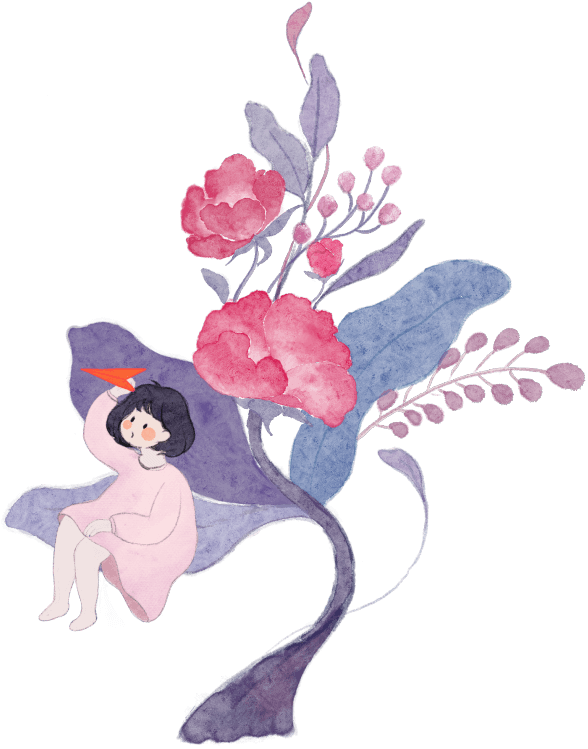
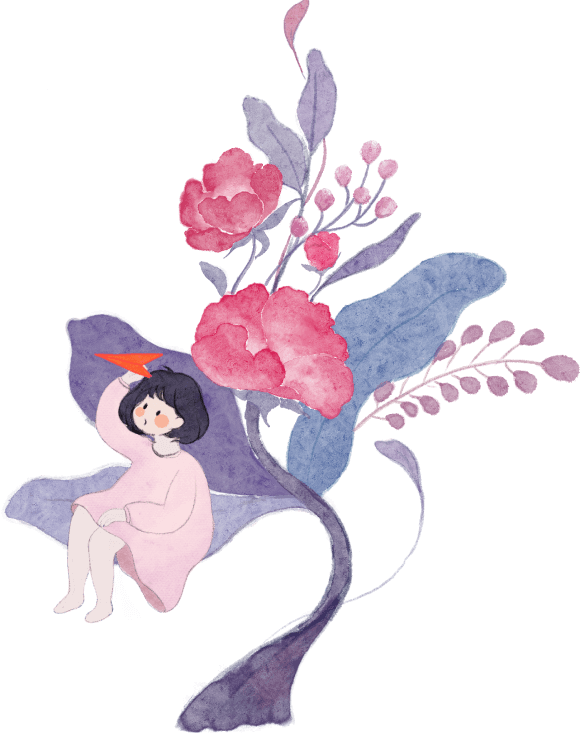
feat: plane following track on scroll (#11)
* feat: plane following track on scroll

* feat: activate plane only on big screen

* feat: add frame for cover image after plane released

diff --git a/templates/index.html b/templates/index.html
@@ -55,7 +55,10 @@
 
         <main>
             {% block content %}
-            <div class="cover"><img src="cover_girl.png" alt="cover" loading="lazy"></div>
+            <div class="cover">
+                <img src="cover_girl.png" id="coverImageDefault" alt="girl with plane in her hand" loading="lazy">
+                <img src="cover_girl_plane_released.png" id="coverImageActive" alt="girl with plane released" loading="lazy" style="display: none;">
+            </div>
             <div class="greet">Hi there!</div>
             <div class="introduction">
                 <p>
@@ -156,9 +159,96 @@
                 </a>
                 {% endfor %}
             </section>
+            <svg id="track" xmlns="http://www.w3.org/2000/svg" width="1460" height="1708" viewbox="0 0 1460 1708" fill="none">
+                <path id="curve"
+                    d="M1061.5 179C919.5 69.4998 395.536 -86.0222 105 69.4998C-64.9999 160.5 -6.50002 483.65 172.5 600C271.72 664.493 500.5 743.5 1048 743.5C1172.42 743.5 1246.5 737.667 1326.5 743.5C1443.5 752.031 1525.5 1088.5 1372 1137C714.198 1344.84 860 1658 526 1658C233.737 1658 152.833 1682.33 103 1704"
+                    stroke="#ED5500" stroke-width="7" />
+            </svg>
+            
+            <svg id="plane" xmlns="http://www.w3.org/2000/svg" xmlns:xlink="http://www.w3.org/1999/xlink" width="102" height="41"
+                viewbox="0 0 102 41" fill="none">
+                <rect x="101.33" y="37.1659" width="100.209" height="37.1843" transform="rotate(178.196 101.33 37.1659)"
+                    fill="url(#pattern0)" />
+                <defs>
+                    <pattern id="pattern0" patternContentUnits="objectBoundingBox" width="1" height="1">
+                        <use xlink:href="#image0_234_24004" transform="scale(0.00628931 0.0169492)" />
+                    </pattern>
+                    <image id="image0_234_24004" width="159" height="59"
[1 lines of base64/hex data omitted]
+                </defs>
+            </svg>
             {% endblock content %}
         </main>
     </div>
+    
+    <script>
+        const plane = document.getElementById("plane");
+        const path = document.getElementById("curve");
+        const coverImageDefault = document.getElementById("coverImageDefault");
+        const coverImageActive = document.getElementById("coverImageActive");
+
+        const pathLength = path.getTotalLength();
+        const START_THRESHOLD = 0.02; // do not display the flying plane until it starts scrolling
+
+        let lastScrollPos = 0;
+        const handleScroll = function () {
+            const boundingRect = path.getBoundingClientRect();
+            const scrollPercent =
+                (window.pageYOffset || document.documentElement.scrollTop) /
+                (path.getBoundingClientRect().height);
+
+            const point = path.getPointAtLength(scrollPercent * pathLength);
+
+            const tangent = path.getPointAtLength((scrollPercent + 0.01) * pathLength);
+            const angle = Math.atan2(tangent.y - point.y, tangent.x - point.x) * 180 / Math.PI;
+            const direction = (window.pageYOffset > lastScrollPos) ? '' : 'rotateY(180deg)';
+            lastScrollPos = window.pageYOffset;
+
+            coverImageDefault.style.display = scrollPercent > START_THRESHOLD ? 'none' : 'block';
+            coverImageActive.style.display = scrollPercent > START_THRESHOLD ? 'block' : 'none';
+            plane.style.opacity = scrollPercent < START_THRESHOLD ? 0 : 1;
+            plane.style.left = `calc(${point.x}px + 50% - 810px)`;
+            plane.style.top = (point.y + 350) + "px";
+            plane.style.transform = `rotate(${angle}deg) ${direction}`;
+        };
+
+        const throttle = (func, limit) => {
+            let inThrottle;
+            return function() {
+                const args = arguments;
+                const context = this;
+                if (!inThrottle) {
+                func.apply(context, args);
+                inThrottle = true;
+                setTimeout(() => inThrottle = false, limit);
+                }
+            }
+        }
+
+        let planeActivated = false;
+        const throttledHandleScroll = throttle(handleScroll, 50);
+        const attachPlaneEvent = () => {
+            window.addEventListener('scroll', throttledHandleScroll)
+            planeActivated = true;
+        }
+        const detachPlaneEvent = () => {
+            window.removeEventListener('scroll', throttledHandleScroll)
+            planeActivated = false;
+        }
+
+
+        if (document.documentElement.clientWidth >= 1366) {
+            attachPlaneEvent();
+        }
+
+        window.onresize = (newSize) => {
+            if (document.documentElement.clientWidth >= 1366) {
+                !planeActivated && attachPlaneEvent();
+            } else {
+                planeActivated && detachPlaneEvent();
+            }
+        }
+    </script>
 </body>
 
 </html>

diff --git a/sass/_components.scss b/sass/_components.scss
@@ -558,3 +558,15 @@ h4 {
         }
     }
 }
+
+#track {
+    position: absolute;
+    top: 300px;
+    left: calc(50% - 810px);
+    opacity: 0;
+}
+
+#plane {
+    position: absolute;
+    transition: all linear 50ms;
+}

diff --git a/sass/_media.scss b/sass/_media.scss
@@ -64,4 +64,9 @@
             width: 634px;
         }
     }
+
+    #track,
+    #plane {
+        display: none;
+    }
 }
